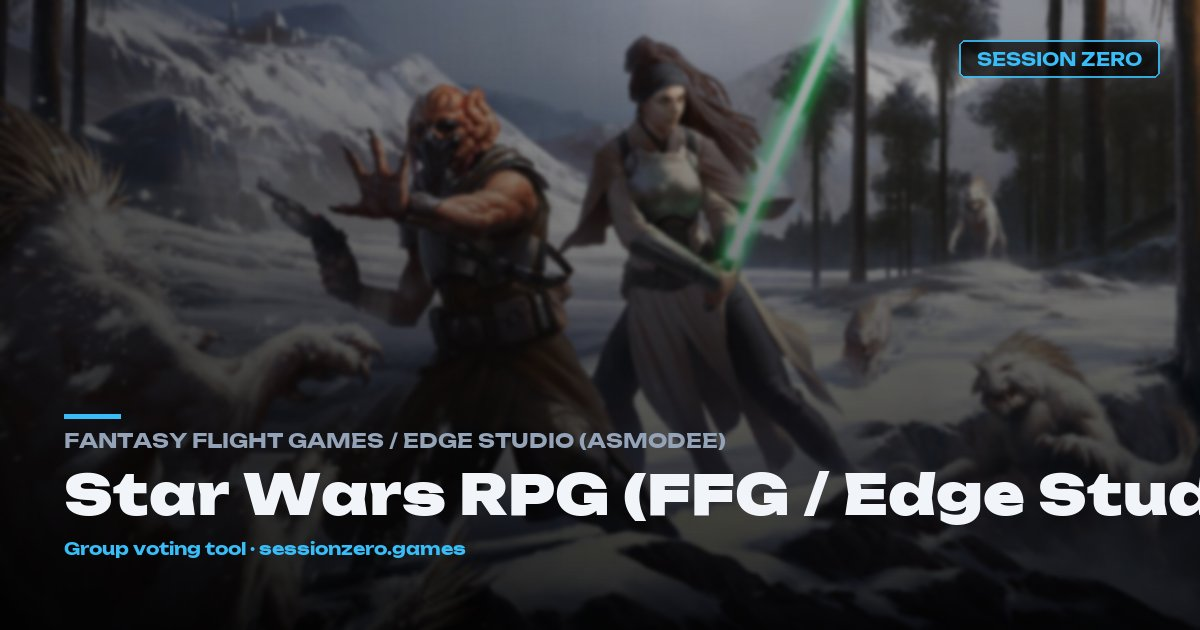
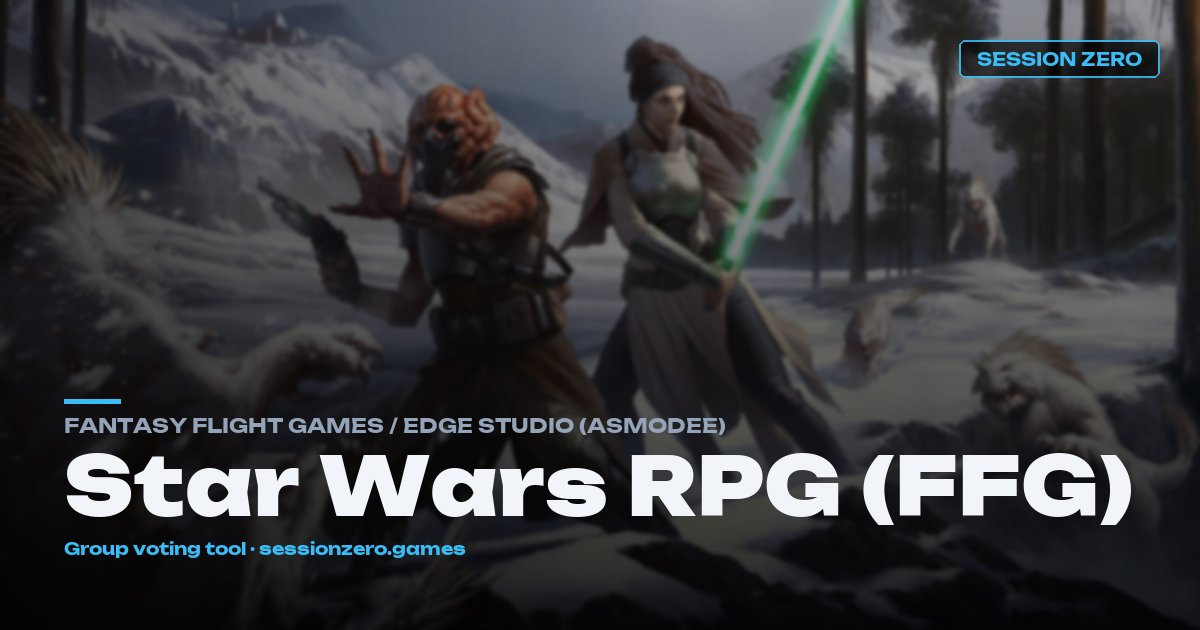
Shorten Star Wars RPG name to fit title cap
"Star Wars RPG (FFG / Edge Studio)" (33 chars) was the only system
name pushing its title beyond the 60-char cap (69 EN / 72 RU).
Shortened to "Star Wars RPG (FFG)" — FFG is the SEO-relevant anchor
(queries use "star wars rpg ffg"), Edge Studio is credit attribution.

- Title EN: 69 → 55 chars
- Title RU: 72 → 58 chars
- OG image regenerated with new name

All 44 system titles now fit the 55-60 char SEO sweet spot.

Changed region(s): [[0.0308, 0.6333, 1.0, 0.8444]]

diff --git a/ru/system/star-wars-ffg.html b/ru/system/star-wars-ffg.html
@@ -3,7 +3,7 @@
 <head>
 <meta charset="UTF-8">
 <meta name="viewport" content="width=device-width, initial-scale=1.0">
-<title>Star Wars RPG (FFG / Edge Studio) — Нарративные дайсы RPG | Session Zero</title>
+<title>Star Wars RPG (FFG) — Нарративные дайсы RPG | Session Zero</title>
 <meta name="description" content="Три полностью совместимых базовых книги — Edge of the Empire (2013), Age of Rebellion (2014) и Force and Destiny (2015) — охватывают все грани вселенной…">
 <link rel="canonical" href="https://sessionzero.games/ru/system/star-wars-ffg.html">
 <link rel="alternate" hreflang="en" href="https://sessionzero.games/system/star-wars-ffg.html">
@@ -12,27 +12,27 @@
 <meta name="robots" content="index, follow">
 <meta property="og:type" content="article">
 <meta property="og:url" content="https://sessionzero.games/ru/system/star-wars-ffg.html">
-<meta property="og:title" content="Star Wars RPG (FFG / Edge Studio) — Нарративные дайсы RPG | Session Zero">
+<meta property="og:title" content="Star Wars RPG (FFG) — Нарративные дайсы RPG | Session Zero">
 <meta property="og:description" content="Три полностью совместимых базовых книги — Edge of the Empire (2013), Age of Rebellion (2014) и Force and Destiny (2015) — охватывают все грани вселенной…">
 <meta property="og:image" content="https://sessionzero.games/og/star-wars-ffg.jpg">
 <meta property="og:image:width" content="1200">
 <meta property="og:image:height" content="630">
 <meta property="og:image:type" content="image/jpeg">
-<meta property="og:image:alt" content="Star Wars RPG (FFG / Edge Studio) — TTRPG on Session Zero">
+<meta property="og:image:alt" content="Star Wars RPG (FFG) — TTRPG on Session Zero">
 <meta property="og:locale" content="ru_RU">
 <meta name="twitter:card" content="summary_large_image">
-<meta name="twitter:title" content="Star Wars RPG (FFG / Edge Studio) — Нарративные дайсы RPG | Session Zero">
+<meta name="twitter:title" content="Star Wars RPG (FFG) — Нарративные дайсы RPG | Session Zero">
 <meta name="twitter:description" content="Три полностью совместимых базовых книги — Edge of the Empire (2013), Age of Rebellion (2014) и Force and Destiny (2015) — охватывают все грани вселенной…">
 <meta name="twitter:image" content="https://sessionzero.games/og/star-wars-ffg.jpg">
-<meta name="twitter:image:alt" content="Star Wars RPG (FFG / Edge Studio) — TTRPG on Session Zero">
+<meta name="twitter:image:alt" content="Star Wars RPG (FFG) — TTRPG on Session Zero">
 <link rel="icon" type="image/svg+xml" href="/favicon.svg">
 <link rel="preconnect" href="https://fonts.googleapis.com">
 <link rel="preconnect" href="https://fonts.gstatic.com" crossorigin>
 <link href="https://fonts.googleapis.com/css2?family=Unbounded:wght@400;700;900&family=Manrope:wght@300;400;600;800&display=swap" rel="stylesheet">
 <link rel="stylesheet" href="/style.css">
 <script defer src="/lib/lucide.min.js"></script>
-<script type="application/ld+json">{"@context":"https://schema.org","@type":"CreativeWork","name":"Star Wars RPG (FFG / Edge Studio)","alternativeHeadline":"«Давным-давно, в далёкой-далёкой галактике… ваша история только начинается».","description":"Три полностью совместимых базовых книги — Edge of the Empire (2013), Age of Rebellion (2014) и Force and Destiny (2015) — охватывают все грани вселенной…","inLanguage":"ru","genre":"Настольная ролевая игра","publisher":{"@type":"Organization","name":"Fantasy Flight Games / Edge Studio (Asmodee)"},"url":"https://sessionzero.games/ru/system/star-wars-ffg.html","image":"https://sessionzero.games/og/star-wars-ffg.jpg"}</script>
-<script type="application/ld+json">{"@context":"https://schema.org","@type":"BreadcrumbList","itemListElement":[{"@type":"ListItem","position":1,"name":"Session Zero","item":"https://sessionzero.games/"},{"@type":"ListItem","position":2,"name":"Star Wars RPG (FFG / Edge Studio)","item":"https://sessionzero.games/ru/system/star-wars-ffg.html"}]}</script>
+<script type="application/ld+json">{"@context":"https://schema.org","@type":"CreativeWork","name":"Star Wars RPG (FFG)","alternativeHeadline":"«Давным-давно, в далёкой-далёкой галактике… ваша история только начинается».","description":"Три полностью совместимых базовых книги — Edge of the Empire (2013), Age of Rebellion (2014) и Force and Destiny (2015) — охватывают все грани вселенной…","inLanguage":"ru","genre":"Настольная ролевая игра","publisher":{"@type":"Organization","name":"Fantasy Flight Games / Edge Studio (Asmodee)"},"url":"https://sessionzero.games/ru/system/star-wars-ffg.html","image":"https://sessionzero.games/og/star-wars-ffg.jpg"}</script>
+<script type="application/ld+json">{"@context":"https://schema.org","@type":"BreadcrumbList","itemListElement":[{"@type":"ListItem","position":1,"name":"Session Zero","item":"https://sessionzero.games/"},{"@type":"ListItem","position":2,"name":"Star Wars RPG (FFG)","item":"https://sessionzero.games/ru/system/star-wars-ffg.html"}]}</script>
 </head>
 <body class="static-page">
 <header class="static-header">
@@ -44,7 +44,7 @@
 </header>
 <main class="static-main">
   <article class="system-page static active">
-    <div class="hero-banner"><img src="https://wsrv.nl/?url=https%3A%2F%2Fstatic0.srcdn.com%2Fwordpress%2Fwp-content%2Fuploads%2F2021%2F01%2FStar-Wars-Tabletop-RPGs-Fantasy-Flight-Games-Force-And-Destiny.jpg&amp;w=1200&amp;h=600&amp;fit=cover&amp;output=webp&amp;q=80" alt="Star Wars RPG (FFG / Edge Studio) hero art" loading="eager" decoding="async"><div class="hero-overlay"><div class="meta">Fantasy Flight Games / Edge Studio (Asmodee)</div><h1>Star Wars RPG (FFG / Edge Studio)</h1></div></div>
+    <div class="hero-banner"><img src="https://wsrv.nl/?url=https%3A%2F%2Fstatic0.srcdn.com%2Fwordpress%2Fwp-content%2Fuploads%2F2021%2F01%2FStar-Wars-Tabletop-RPGs-Fantasy-Flight-Games-Force-And-Destiny.jpg&amp;w=1200&amp;h=600&amp;fit=cover&amp;output=webp&amp;q=80" alt="Star Wars RPG (FFG) hero art" loading="eager" decoding="async"><div class="hero-overlay"><div class="meta">Fantasy Flight Games / Edge Studio (Asmodee)</div><h1>Star Wars RPG (FFG)</h1></div></div>
     <p class="tagline">«Давным-давно, в далёкой-далёкой галактике… ваша история только начинается».</p>
     <div class="quick-stats">
         <div class="qs"><span class="qs-label">Кубики</span><span class="qs-value">Нарративные кубики (Narrative Dice System)</span></div>
@@ -165,7 +165,7 @@
           </a>
     </div>
     <div class="vote-cta">
-      <a href="/#star-wars-ffg" class="vote-cta-btn">Проголосуйте за Star Wars RPG (FFG / Edge Studio) всей группой →</a>
+      <a href="/#star-wars-ffg" class="vote-cta-btn">Проголосуйте за Star Wars RPG (FFG) всей группой →</a>
       <p class="vote-cta-sub">Откройте в Session Zero, чтобы каждый игрок проголосовал и увидел итоги.</p>
     </div>
   </article>

diff --git a/system/star-wars-ffg.html b/system/star-wars-ffg.html
@@ -3,7 +3,7 @@
 <head>
 <meta charset="UTF-8">
 <meta name="viewport" content="width=device-width, initial-scale=1.0">
-<title>Star Wars RPG (FFG / Edge Studio) — narrative dice RPG | Session Zero</title>
+<title>Star Wars RPG (FFG) — narrative dice RPG | Session Zero</title>
 <meta name="description" content="Three fully cross-compatible core rulebooks — Edge of the Empire (2013), Age of Rebellion (2014), and Force and Destiny (2015) — cover every facet of the…">
 <link rel="canonical" href="https://sessionzero.games/system/star-wars-ffg.html">
 <link rel="alternate" hreflang="en" href="https://sessionzero.games/system/star-wars-ffg.html">
@@ -12,27 +12,27 @@
 <meta name="robots" content="index, follow">
 <meta property="og:type" content="article">
 <meta property="og:url" content="https://sessionzero.games/system/star-wars-ffg.html">
-<meta property="og:title" content="Star Wars RPG (FFG / Edge Studio) — narrative dice RPG | Session Zero">
+<meta property="og:title" content="Star Wars RPG (FFG) — narrative dice RPG | Session Zero">
 <meta property="og:description" content="Three fully cross-compatible core rulebooks — Edge of the Empire (2013), Age of Rebellion (2014), and Force and Destiny (2015) — cover every facet of the…">
 <meta property="og:image" content="https://sessionzero.games/og/star-wars-ffg.jpg">
 <meta property="og:image:width" content="1200">
 <meta property="og:image:height" content="630">
 <meta property="og:image:type" content="image/jpeg">
-<meta property="og:image:alt" content="Star Wars RPG (FFG / Edge Studio) — TTRPG on Session Zero">
+<meta property="og:image:alt" content="Star Wars RPG (FFG) — TTRPG on Session Zero">
 <meta property="og:locale" content="en_US">
 <meta name="twitter:card" content="summary_large_image">
-<meta name="twitter:title" content="Star Wars RPG (FFG / Edge Studio) — narrative dice RPG | Session Zero">
+<meta name="twitter:title" content="Star Wars RPG (FFG) — narrative dice RPG | Session Zero">
 <meta name="twitter:description" content="Three fully cross-compatible core rulebooks — Edge of the Empire (2013), Age of Rebellion (2014), and Force and Destiny (2015) — cover every facet of the…">
 <meta name="twitter:image" content="https://sessionzero.games/og/star-wars-ffg.jpg">
-<meta name="twitter:image:alt" content="Star Wars RPG (FFG / Edge Studio) — TTRPG on Session Zero">
+<meta name="twitter:image:alt" content="Star Wars RPG (FFG) — TTRPG on Session Zero">
 <link rel="icon" type="image/svg+xml" href="/favicon.svg">
 <link rel="preconnect" href="https://fonts.googleapis.com">
 <link rel="preconnect" href="https://fonts.gstatic.com" crossorigin>
 <link href="https://fonts.googleapis.com/css2?family=Unbounded:wght@400;700;900&family=Manrope:wght@300;400;600;800&display=swap" rel="stylesheet">
 <link rel="stylesheet" href="/style.css">
 <script defer src="/lib/lucide.min.js"></script>
-<script type="application/ld+json">{"@context":"https://schema.org","@type":"CreativeWork","name":"Star Wars RPG (FFG / Edge Studio)","alternativeHeadline":"\"A long time ago in a galaxy far, far away... your story is just beginning.\"","description":"Three fully cross-compatible core rulebooks — Edge of the Empire (2013), Age of Rebellion (2014), and Force and Destiny (2015) — cover every facet of the…","inLanguage":"en","genre":"Tabletop role-playing game","publisher":{"@type":"Organization","name":"Fantasy Flight Games / Edge Studio (Asmodee)"},"url":"https://sessionzero.games/system/star-wars-ffg.html","image":"https://sessionzero.games/og/star-wars-ffg.jpg"}</script>
-<script type="application/ld+json">{"@context":"https://schema.org","@type":"BreadcrumbList","itemListElement":[{"@type":"ListItem","position":1,"name":"Session Zero","item":"https://sessionzero.games/"},{"@type":"ListItem","position":2,"name":"Star Wars RPG (FFG / Edge Studio)","item":"https://sessionzero.games/system/star-wars-ffg.html"}]}</script>
+<script type="application/ld+json">{"@context":"https://schema.org","@type":"CreativeWork","name":"Star Wars RPG (FFG)","alternativeHeadline":"\"A long time ago in a galaxy far, far away... your story is just beginning.\"","description":"Three fully cross-compatible core rulebooks — Edge of the Empire (2013), Age of Rebellion (2014), and Force and Destiny (2015) — cover every facet of the…","inLanguage":"en","genre":"Tabletop role-playing game","publisher":{"@type":"Organization","name":"Fantasy Flight Games / Edge Studio (Asmodee)"},"url":"https://sessionzero.games/system/star-wars-ffg.html","image":"https://sessionzero.games/og/star-wars-ffg.jpg"}</script>
+<script type="application/ld+json">{"@context":"https://schema.org","@type":"BreadcrumbList","itemListElement":[{"@type":"ListItem","position":1,"name":"Session Zero","item":"https://sessionzero.games/"},{"@type":"ListItem","position":2,"name":"Star Wars RPG (FFG)","item":"https://sessionzero.games/system/star-wars-ffg.html"}]}</script>
 </head>
 <body class="static-page">
 <header class="static-header">
@@ -44,7 +44,7 @@
 </header>
 <main class="static-main">
   <article class="system-page static active">
-    <div class="hero-banner"><img src="https://wsrv.nl/?url=https%3A%2F%2Fstatic0.srcdn.com%2Fwordpress%2Fwp-content%2Fuploads%2F2021%2F01%2FStar-Wars-Tabletop-RPGs-Fantasy-Flight-Games-Force-And-Destiny.jpg&amp;w=1200&amp;h=600&amp;fit=cover&amp;output=webp&amp;q=80" alt="Star Wars RPG (FFG / Edge Studio) hero art" loading="eager" decoding="async"><div class="hero-overlay"><div class="meta">Fantasy Flight Games / Edge Studio (Asmodee)</div><h1>Star Wars RPG (FFG / Edge Studio)</h1></div></div>
+    <div class="hero-banner"><img src="https://wsrv.nl/?url=https%3A%2F%2Fstatic0.srcdn.com%2Fwordpress%2Fwp-content%2Fuploads%2F2021%2F01%2FStar-Wars-Tabletop-RPGs-Fantasy-Flight-Games-Force-And-Destiny.jpg&amp;w=1200&amp;h=600&amp;fit=cover&amp;output=webp&amp;q=80" alt="Star Wars RPG (FFG) hero art" loading="eager" decoding="async"><div class="hero-overlay"><div class="meta">Fantasy Flight Games / Edge Studio (Asmodee)</div><h1>Star Wars RPG (FFG)</h1></div></div>
     <p class="tagline">"A long time ago in a galaxy far, far away... your story is just beginning."</p>
     <div class="quick-stats">
         <div class="qs"><span class="qs-label">Dice</span><span class="qs-value">Нарративные кубики (Narrative Dice System)</span></div>
@@ -165,7 +165,7 @@
           </a>
     </div>
     <div class="vote-cta">
-      <a href="/#star-wars-ffg" class="vote-cta-btn">Vote on Star Wars RPG (FFG / Edge Studio) with your group →</a>
+      <a href="/#star-wars-ffg" class="vote-cta-btn">Vote on Star Wars RPG (FFG) with your group →</a>
       <p class="vote-cta-sub">Open in Session Zero to let every player vote and see the results.</p>
     </div>
   </article>

diff --git a/data/systems/star-wars-ffg.js b/data/systems/star-wars-ffg.js
@@ -4,7 +4,7 @@ registerSystem("star-wars-ffg", {
     "family": { "key": "standalone", "order": 12 },
     "genre": { "key": "sci-fi", "order": 7 }
   },
-  "name": "Star Wars RPG (FFG / Edge Studio)",
+  "name": "Star Wars RPG (FFG)",
   "publisher": "Fantasy Flight Games / Edge Studio (Asmodee)",
   "dice": "Нарративные кубики (Narrative Dice System)",
   "players": "3–6",
